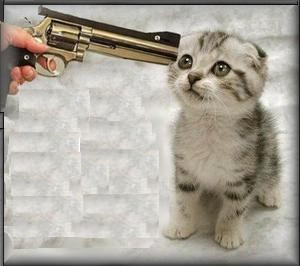
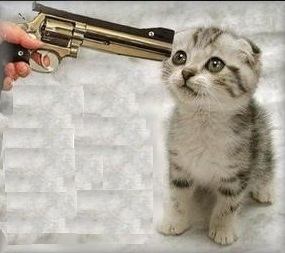
Ejemplos de imagenes, iconos, alertas y barra de progreso

diff --git a/10_Bootstrap/ejemplo-07-otros.html b/10_Bootstrap/ejemplo-07-otros.html
@@ -1,6 +1,6 @@
 <!DOCTYPE html>
 <html lang="en">
- 
+
 <head>
     <meta charset="utf-8">
     <meta http-equiv="X-UA-Compatible" content="IE=edge">
@@ -18,122 +18,145 @@
       <script src="https://oss.maxcdn.com/html5shiv/3.7.3/html5shiv.min.js"></script>
       <script src="https://oss.maxcdn.com/respond/1.4.2/respond.min.js"></script>
     <![endif]-->
-		<script type="text/javascript" src="http://code.jquery.com/jquery-2.1.1.min.js"></script>
-		<script type="text/javascript" src="http://maxcdn.bootstrapcdn.com/bootstrap/3.3.1/js/bootstrap.min.js"></script>
-			<script src="http://cdnjs.cloudflare.com/ajax/libs/moment.js/2.9.0/moment-with-locales.js"></script>
-			<script src="js/bootstrap-datetimepicker.js"></script>
+    <script type="text/javascript" src="http://code.jquery.com/jquery-2.1.1.min.js"></script>
+    <script type="text/javascript" src="http://maxcdn.bootstrapcdn.com/bootstrap/3.3.1/js/bootstrap.min.js"></script>
+    <script src="http://cdnjs.cloudflare.com/ajax/libs/moment.js/2.9.0/moment-with-locales.js"></script>
+    <script src="js/bootstrap-datetimepicker.js"></script>
 </head>
 
 <body>
-    <div>
+    <div class="container">
         <h1>Ejemplos de imagenes</h1>
-
-			 <img src="img/gato-muere1.jpg">
+        Normal:
+        <img src="img/gato-muere1.jpg" alt="Gato a bocajarro" width="300" height="266"> .img-rounded
+        <img src="img/gato-muere1.jpg" alt="Gato a bocajarro" width="300" height="266" class="img-rounded"> <br>.img-circle
+        <img src="img/gato-muere1.jpg" alt="Gato a bocajarro" width="300" height="266" class="img-circle" /> .img-thumbnail
+        <img src="img/gato-muere1.jpg" alt="Gato a bocajarro" width="300" height="266" class="img-thumbnail">
 
         <br/>
-		<div>
-			<h1>Ejemplos de jumbotron</h1>    
-		</div>
-		
+        <div class="jumbotron">
+            <h1>Ejemplos de jumbotron</h1>
+            <p>Node Hoteles, un paraíso para los jumbotrones</p>
+        </div>
+
         <br/>
-		<div>
-		  <strong>Realizado</strong> Indica ...
-		</div>
-		
+        <div class="alert alert-success">
+            <strong>Realizado</strong> Indica una acción positiva o que Sergio ha terminado la web
+        </div>
+
+        <div class="alert alert-success">
+            <button type="button" class="close" data-dismiss="alert" aria-hidden="true">&times;</button>
+            <strong>Title!</strong> Alert body ...
+        </div>
+
+        <div class="alert alert-info">
+            <strong>Realizado</strong> Indica un cambio o acción informativa
+        </div>
+
+        <div class="alert alert-warning">
+            <button type="button" class="close" data-dismiss="alert" aria-hidden="true">&times;</button>
+            <strong>Title!</strong> Alert body ...
+        </div>
+
+        <div class="alert alert-danger">
+            <button type="button" class="close" data-dismiss="alert" aria-hidden="true">&times;</button>
+            <strong>Title!</strong> Indica un peligro o que hay un colombiano entre nosotros
+        </div>
+
+
         <h1>Ejemplos de iconos</h1>
 
-		<button type="button" >
-			<span ></span> Buscar
+        <button type="button" class="btn btn-default">
+			<span class="glyphicon glyphicon-search"></span> Buscar
 		</button>
-		</p>
-		<p>Icono "buscar" como botón:
-		<button type="button">
-			<span></span> Buscar
+        </p>
+        <p>Icono "buscar" como botón:
+            <button type="button" class="btn btn-info">
+			<span class="glyphicon glyphicon-check"></span> Check
 		</button>
-		</p>
-		<p>Icono imprimir: <span ></span></p>      
-		<p>Icono imprimir como botón:
-		<a href="#" >
-			<span ></span> Imprimir 
-		</a>
-		</p> 
-		<a href="http://www.w3schools.com/bootstrap/bootstrap_ref_comp_glyphs.asp" class="btn btn-success btn-lg">
-			<span class="glyphicon glyphicon-plus"></span> Ver más 
-		</a>
-		
-		
-	  <h2>Barra de progreso</h2>
-	  <div >
-		<div  role="progressbar" >
-		  <span >60% Complete</span>
-		</div>
-	  </div>
-	  
-	  <h2>Otras Barras de progreso: progress-bar-warning, progress-bar-alert</h2>
-	  
-	  
-	  <h2>Calendarios</h2>
-	  <div class="container">
-		<div class="row">
-			<div class='col-sm-6'>
-				<div class="form-group">
-					<div class='input-group date' id='datetimepicker1'>
-						<input type='text' class="form-control" />
-						<span class="input-group-addon">
+        </p>
+        <p>Icono imprimir: <span class="glyphicon glyphicon-print"></span></p>
+        <p>Icono imprimir como botón:
+            <a href="#" class="btn btn-success btn-lg">
+                <span class="glyphicon glyphicon-print"></span> Imprimir
+            </a>
+        </p>
+        <a href="http://www.w3schools.com/bootstrap/bootstrap_ref_comp_glyphs.asp" class="btn btn-success btn-lg">
+            <span class="glyphicon glyphicon-plus"></span> Ver más
+        </a>
+
+
+        <h2>Barra de progreso</h2>
+        <div class="progress">
+            <div class="progress-bar-warning" style="width: 60%" role="progressbar">
+                <span>60% Complete</span>
+            </div>
+        </div>
+
+        <h2>Otras Barras de progreso: progress-bar-warning, progress-bar-alert</h2>
+
+        <h2>Calendarios</h2>
+        <div class="container">
+            <div class="row">
+                <div class='col-sm-6'>
+                    <div class="form-group">
+                        <div class='input-group date' id='datetimepicker1'>
+                            <input type='text' class="form-control" />
+                            <span class="input-group-addon">
 							<span class="glyphicon glyphicon-calendar"></span>
-						</span>
-					</div>
-				</div>
-			</div>
-			<script type="text/javascript">
-				$(function () {
-					$('#datetimepicker1').datetimepicker();
-				});
-			</script>
-		</div>
-		</div>
-		
-		<div class="container">
-		<div class='col-md-5'>
-			<div class="form-group">
-				<div class='input-group date' id='datetimepicker6'>
-					<input type='text' class="form-control" />
-					<span class="input-group-addon">
+                            </span>
+                        </div>
+                    </div>
+                </div>
+                <script type="text/javascript">
+                    $(function() {
+                        $('#datetimepicker1').datetimepicker();
+                    });
+                </script>
+            </div>
+        </div>
+
+        <div class="container">
+            <div class='col-md-5'>
+                <div class="form-group">
+                    <div class='input-group date' id='datetimepicker6'>
+                        <input type='text' class="form-control" />
+                        <span class="input-group-addon">
 						<span class="glyphicon glyphicon-calendar"></span>
-					</span>
-				</div>
-			</div>
-		</div>
-		<div class='col-md-5'>
-			<div class="form-group">
-				<div class='input-group date' id='datetimepicker7'>
-					<input type='text' class="form-control" />
-					<span class="input-group-addon">
+                        </span>
+                    </div>
+                </div>
+            </div>
+            <div class='col-md-5'>
+                <div class="form-group">
+                    <div class='input-group date' id='datetimepicker7'>
+                        <input type='text' class="form-control" />
+                        <span class="input-group-addon">
 						<span class="glyphicon glyphicon-calendar"></span>
-					</span>
-				</div>
-			</div>
-		</div>
-	</div>
-	<script type="text/javascript">
-		$(function () {
-			$('#datetimepicker6').datetimepicker();
-			$('#datetimepicker7').datetimepicker({
-				useCurrent: false //Important! See issue #1075
-			});
-			$("#datetimepicker6").on("dp.change", function (e) {
-				$('#datetimepicker7').data("DateTimePicker").minDate(e.date);
-			});
-			$("#datetimepicker7").on("dp.change", function (e) {
-				$('#datetimepicker6').data("DateTimePicker").maxDate(e.date);
-			});
-		});
-	</script>
-	
-	
-		<a href="https://eonasdan.github.io/bootstrap-datetimepicker/" class="btn btn-success btn-lg">
-			<span class="glyphicon glyphicon-plus"></span> Ver calendarios 
-		</a>
+                        </span>
+                    </div>
+                </div>
+            </div>
+        </div>
+        <script type="text/javascript">
+            $(function() {
+                $('#datetimepicker6').datetimepicker();
+                $('#datetimepicker7').datetimepicker({
+                    useCurrent: false //Important! See issue #1075
+                });
+                $("#datetimepicker6").on("dp.change", function(e) {
+                    $('#datetimepicker7').data("DateTimePicker").minDate(e.date);
+                });
+                $("#datetimepicker7").on("dp.change", function(e) {
+                    $('#datetimepicker6').data("DateTimePicker").maxDate(e.date);
+                });
+            });
+        </script>
+
+
+        <a href="https://eonasdan.github.io/bootstrap-datetimepicker/" class="btn btn-success btn-lg">
+            <span class="glyphicon glyphicon-plus"></span> Ver calendarios
+        </a>
 </body>
 
 </html>
